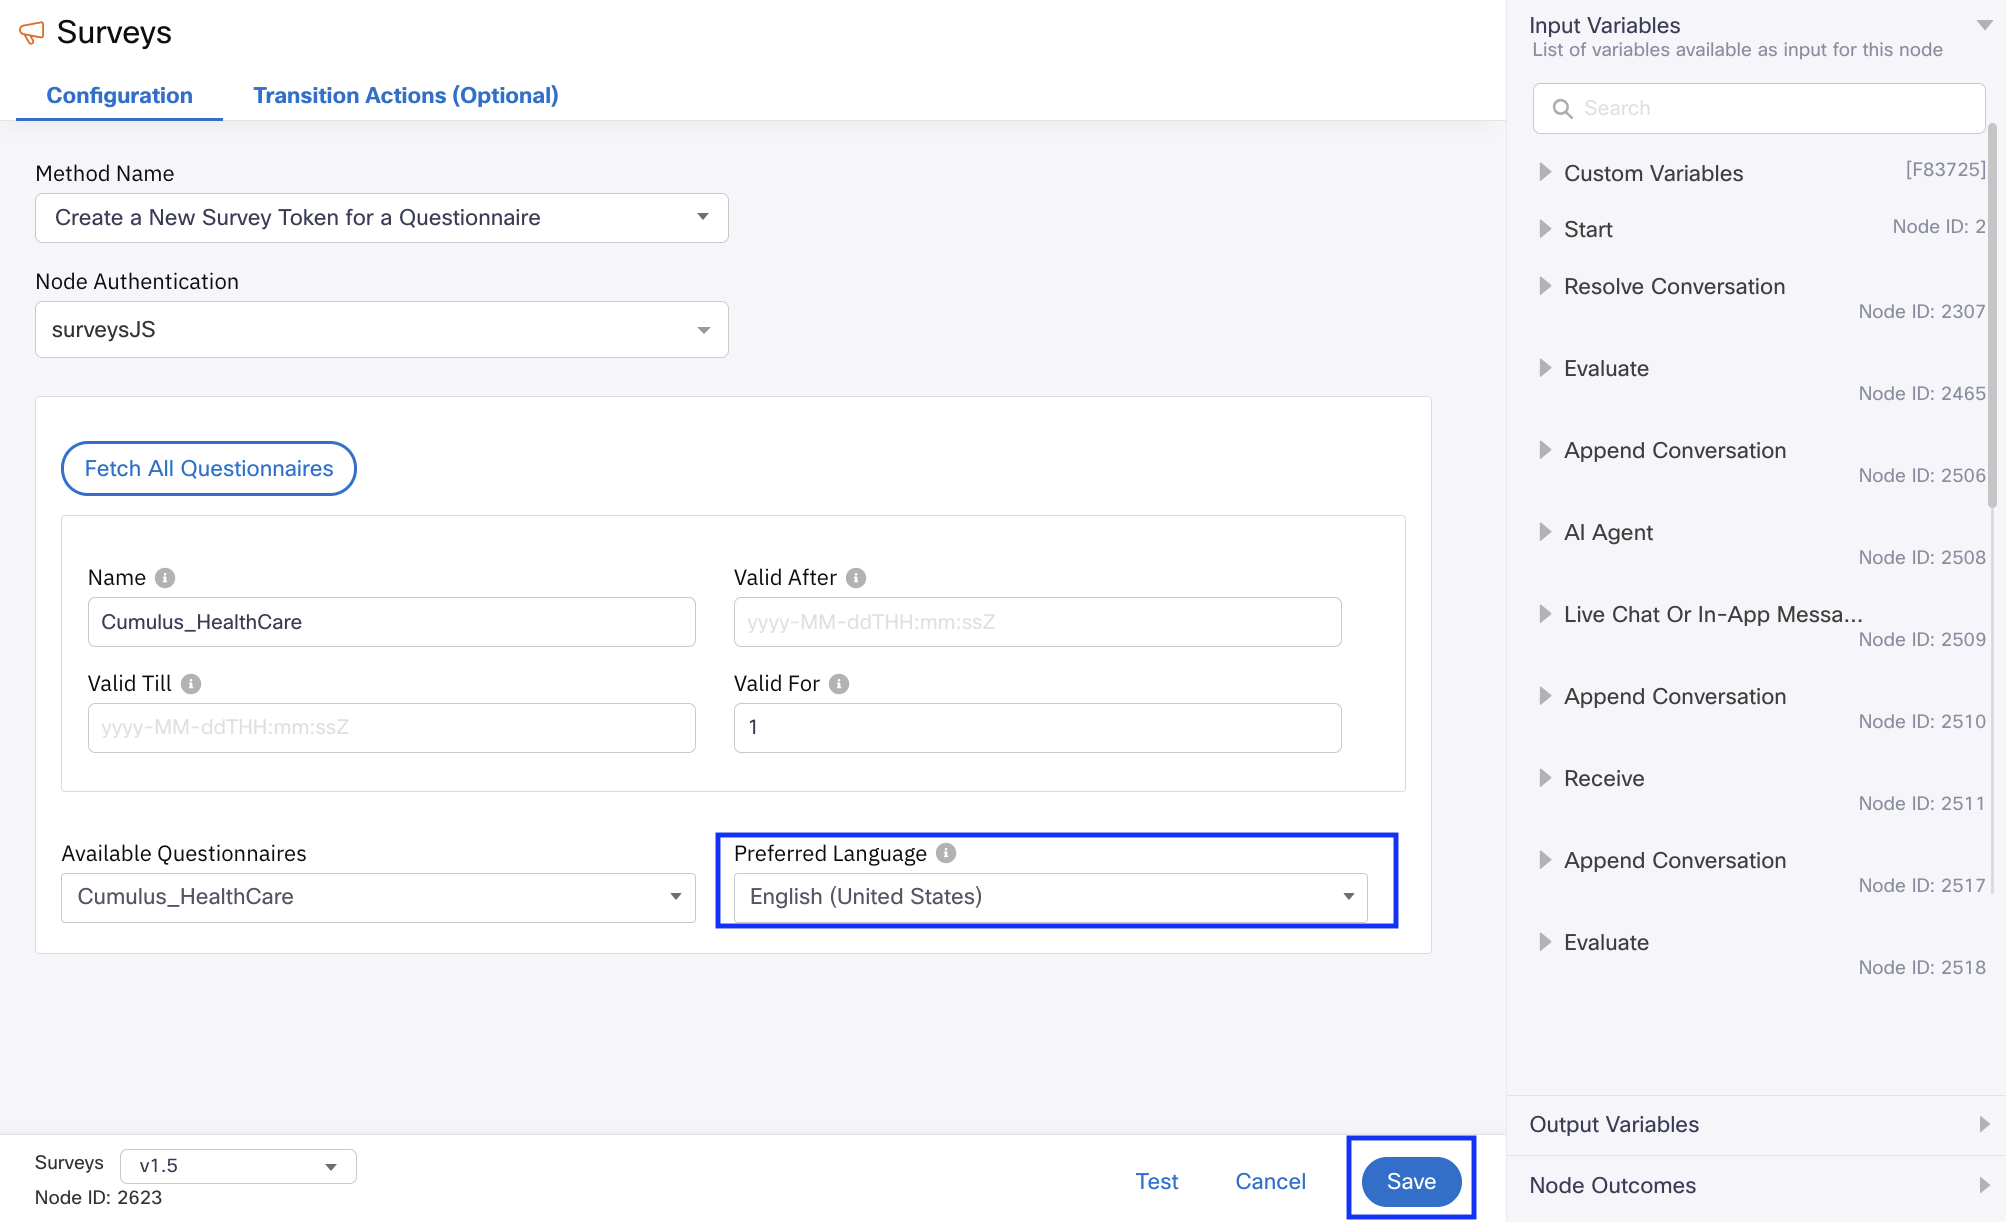
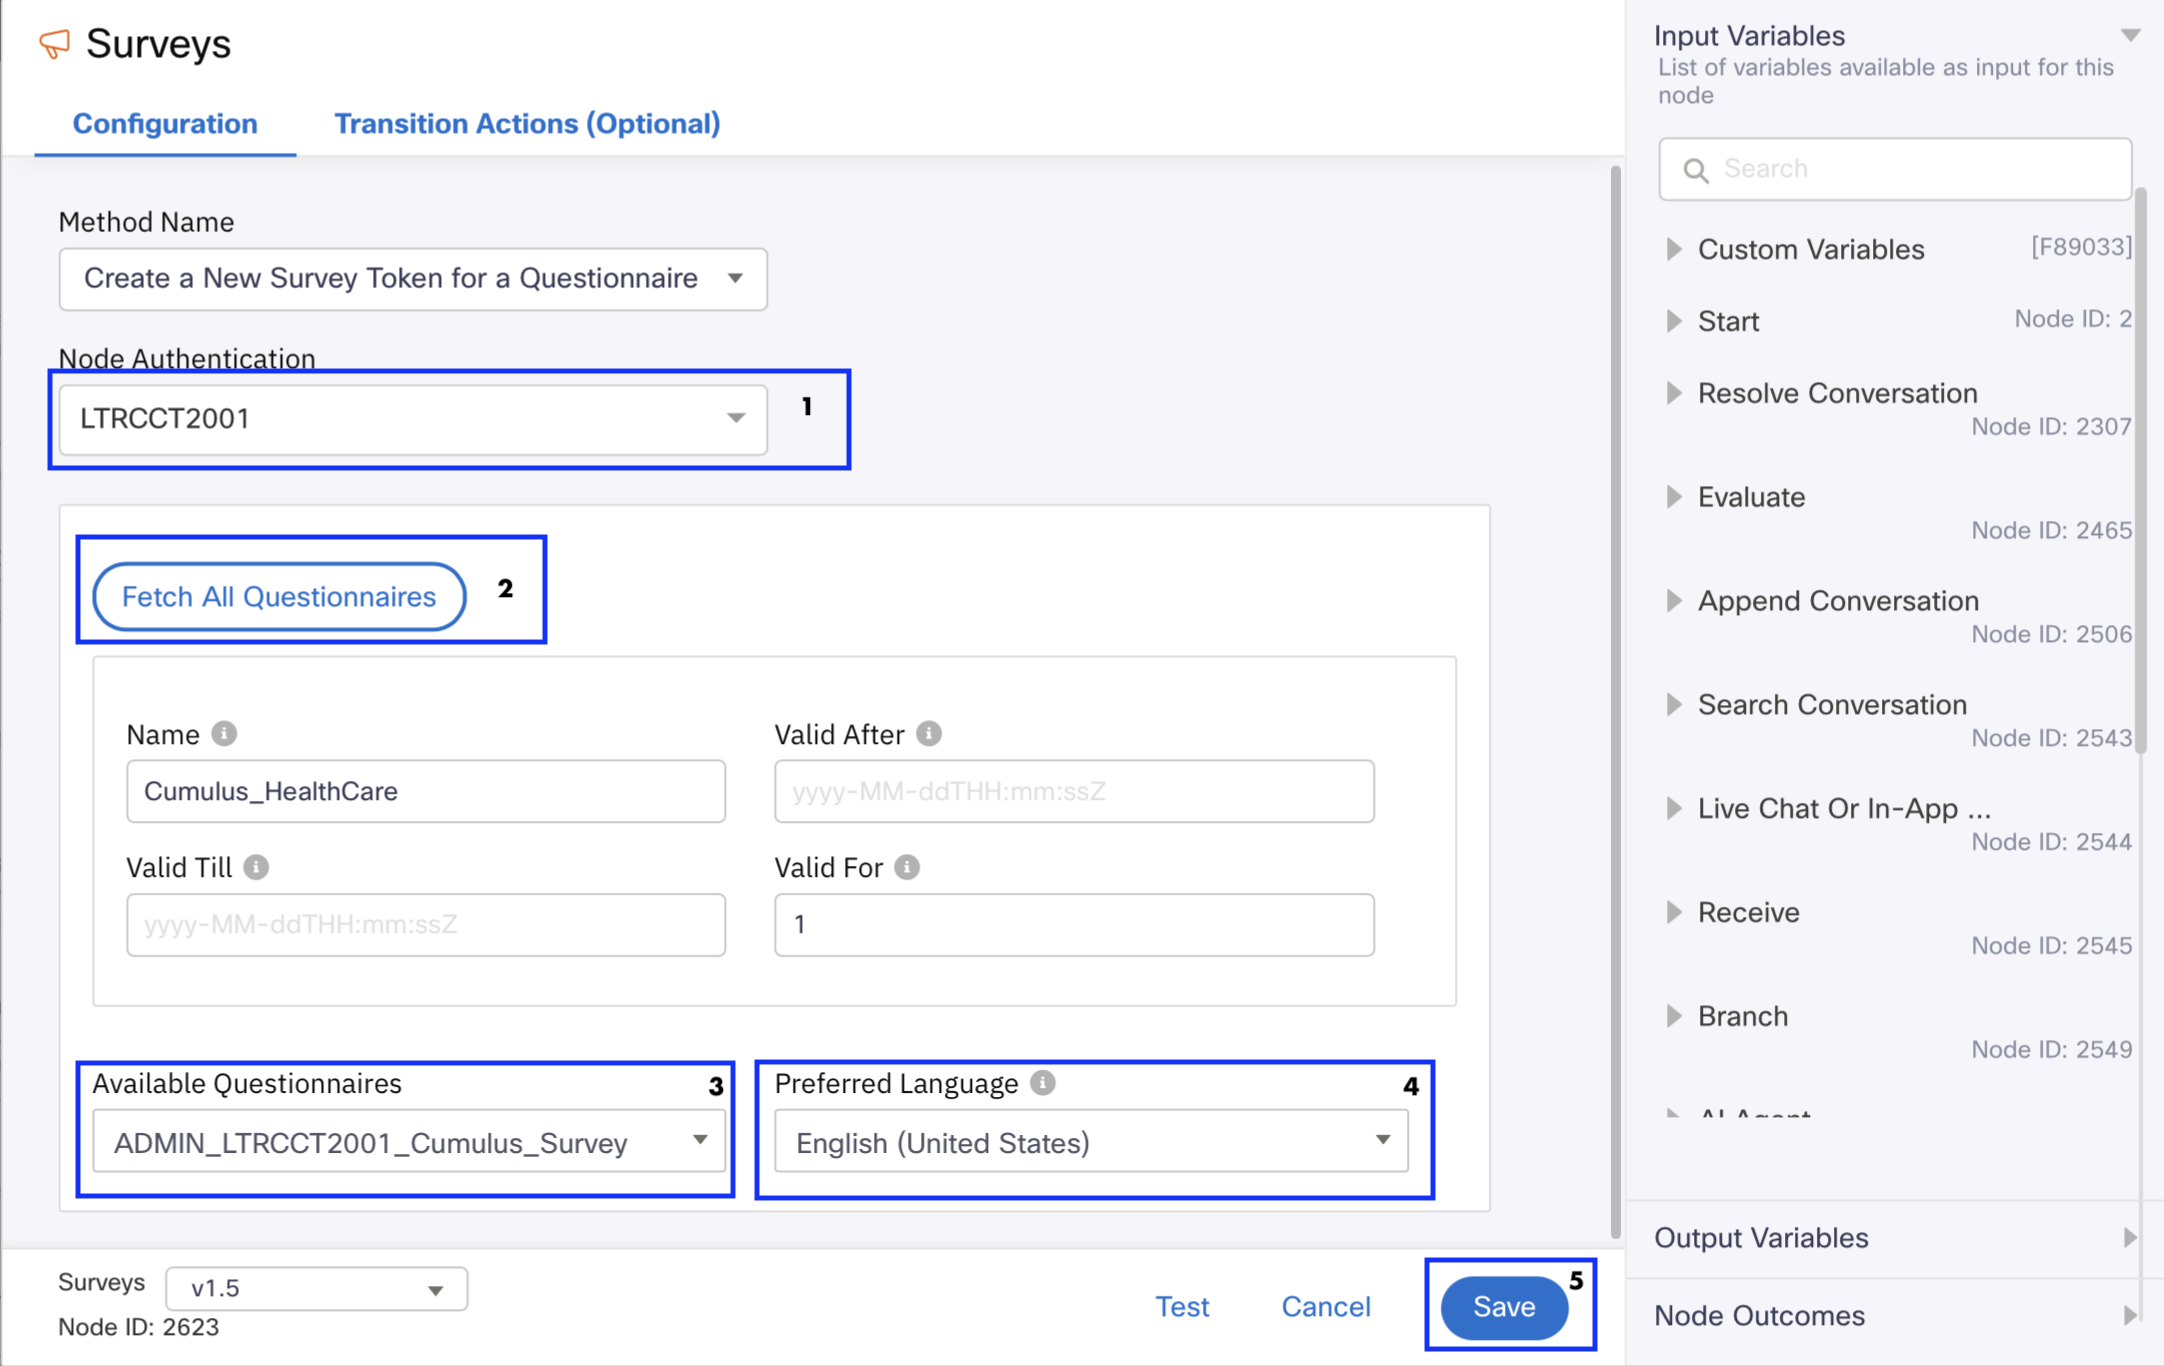
update

diff --git a/docs/digital.md b/docs/digital.md
@@ -566,11 +566,18 @@ After each configuration make sure to **Save**
 
 Locate the numbered node in your flow, double-click to open, and configure it as follows:
 
- Number | Node | Color | Action | Function |
-|---|---|---|---|---|
-| 8 | Survey | Purple | set the Preferred Language field to **English** | Triggers English CSAT survey |
+| Number | Node | Color | Function |
+|---|---|---| --- |
+| 8 | Survey | Purple | Triggers English CSAT survey | 
 
-After configuration make sure to **Save**
+Configure the node with the following settings:
+
+1. **Node Authentication** — Select `LTRCCT2001`
+2. Click **Fetch All Questionnaires**
+3. Under **Available Questionnaires**, select your own survey: `PodXXX_Cumulus_Survey`
+4. Set the **Preferred Language** field to `English`
+
+After configuration, make sure to **Save**.
 
 ???- note "See Example — ⑧ Survey English"
 
@@ -583,16 +590,21 @@ After configuration make sure to **Save**
 
 Locate the numbered node in your flow, double-click to open, and configure it as follows:
 
-Number | Node | Color | Action | Function |
-|---|---|---|---|---|
-| 9 | Survey | Purple | set the Preferred Language field to **Spanish** | Triggers Spanish CSAT survey |
+Number | Node | Color | Function |
+|---|---|---|---|
+| 9 | Survey | Purple | Triggers Spanish CSAT survey |
 
-After configuration make sure to **Save**
+Configure the node with the following settings:
+
+1. **Node Authentication** — Select `LTRCCT2001`
+2. Click **Fetch All Questionnaires**
+3. Under **Available Questionnaires**, select your own survey: `PodXXX_Cumulus_Survey`
+4. Set the **Preferred Language** field to `Spanish`
 
 ???- note "See Example — ⑨ Survey Spanish"
 
     <figure markdown>
-        ![Spanish Survey](./assets/surveyspanish.png){ width="900" }
+        ![Spanish Survey](./assets/spanishsurvey.png){ width="900" }
     </figure>
     > 👆 Set the **Preferred Language** field to **Spanish** to trigger the Spanish CSAT survey.
 
